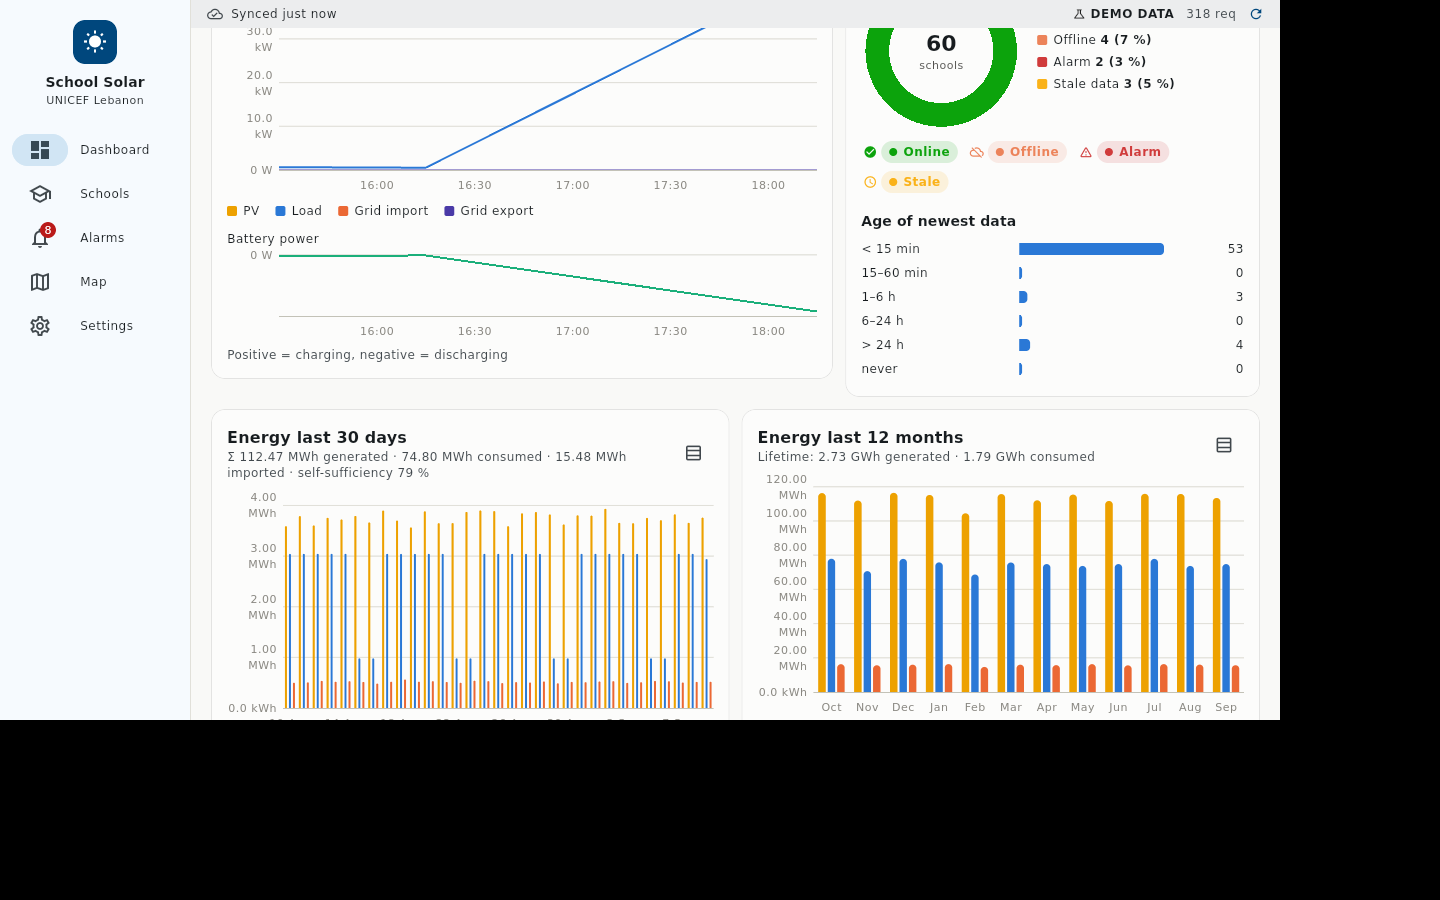
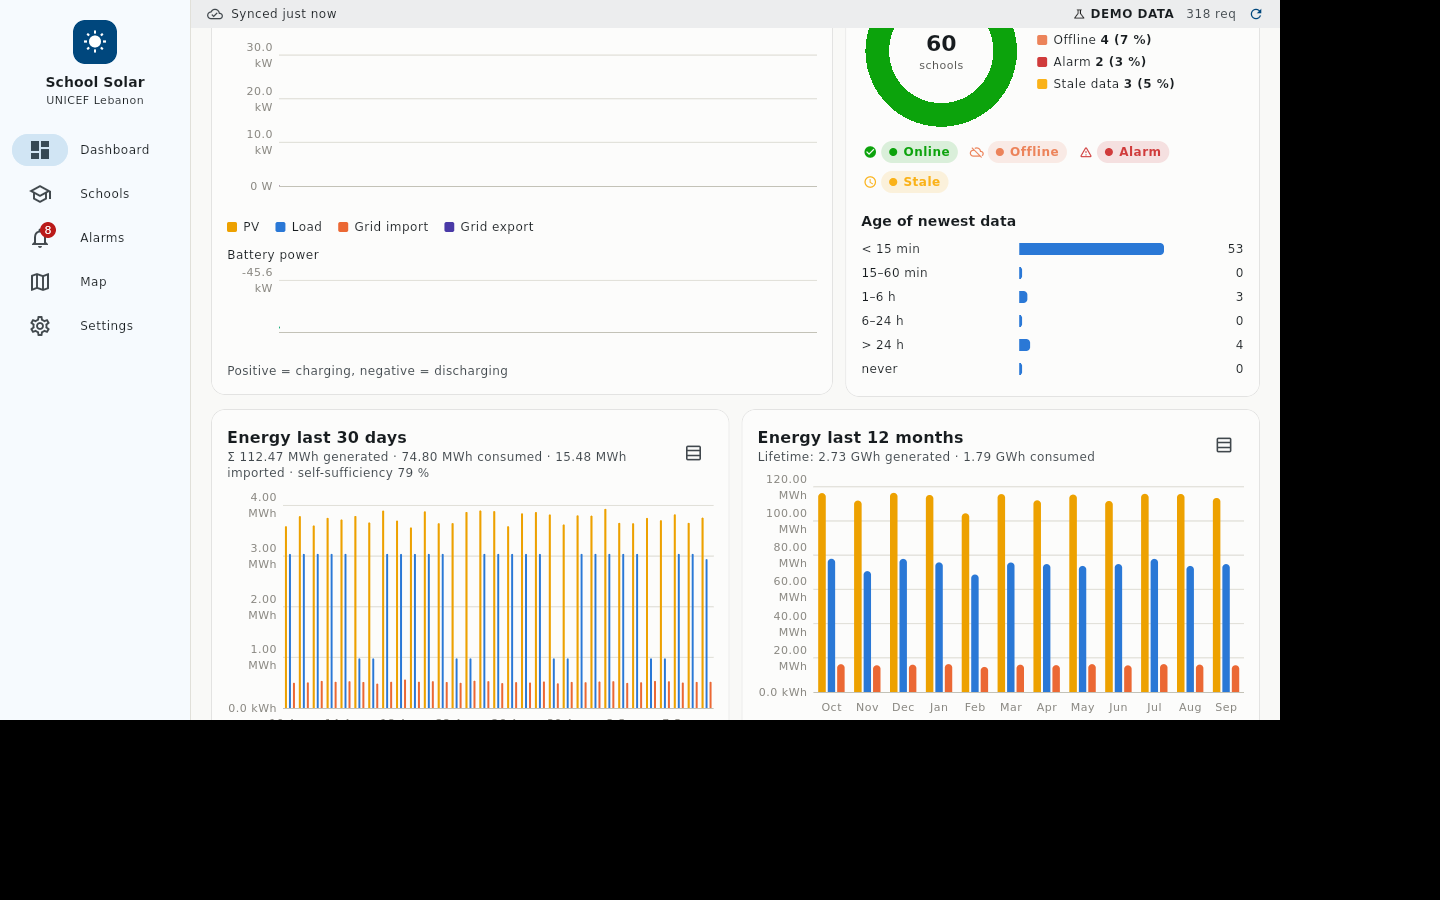
Show a collecting state until two fleet power buckets exist; final screenshots
Claude-Session: https://claude.ai/code/session_01CaQ1Ti7UobeCWXTw2r4q8J

diff --git a/lib/features/dashboard/widgets/fleet_power_card.dart b/lib/features/dashboard/widgets/fleet_power_card.dart
@@ -40,8 +40,14 @@ class FleetPowerCard extends ConsumerWidget {
         // last data lands in an old bucket) would draw a misleading ramp.
         final maxReporting = data.fold(0, (a, x) => x.stationsReporting > a ? x.stationsReporting : a);
         final sorted = data.where((x) => x.stationsReporting >= maxReporting * 0.5).toList()..sort((x, y) => x.bucketTs.compareTo(y.bucketTs));
-        if (sorted.isEmpty) return const SizedBox.shrink();
         final hidden = data.length - sorted.length;
+        if (sorted.length < 2) {
+          return const SectionCard(
+            title: 'Fleet power today',
+            subtitle: 'Sum over reporting plants, 15-min buckets',
+            child: SizedBox(height: 200, child: EmptyState(message: 'Collecting fleet power – the curve fills in after a few synchronisation cycles.', icon: Icons.hourglass_top)),
+          );
+        }
         final series = [
           TimeSeries(label: 'PV', color: p.pv, area: true, points: [for (final x in sorted) (x.bucketTs, x.generationW)]),
           TimeSeries(label: 'Load', color: p.load, points: [for (final x in sorted) (x.bucketTs, x.consumptionW)]),
